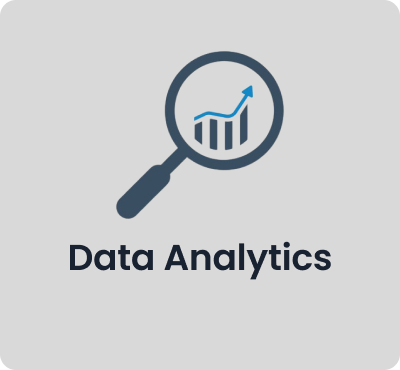
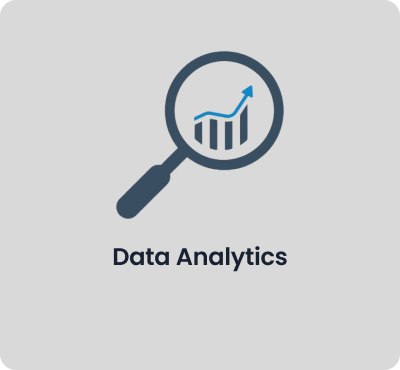
fix: fix project card

Changed region(s): [[0.15, 0.6541, 0.84, 0.773]]

diff --git a/src/components/Projects/Card.tsx b/src/components/Projects/Card.tsx
@@ -3,7 +3,7 @@
 import Image from 'next/image'
 import { StaticImageData } from 'next/image'
 import React, { useEffect, useState } from 'react'
-import Button from '@/components/Hero/Button'
+import Button from '@/components/Projects/Button'
 import Link from 'next/link'
 
 interface CardProps {
@@ -25,15 +25,11 @@ interface ButtonProps {
 const buttonCode: ButtonProps = {
     text: "View Code",
     icon_name: "fa-code",
-    height: "h-[25px]",
-    width: "w-[150px]"
 }
 
 const buttonView: ButtonProps = {
     text: "View Project",
     icon_name: "fa-eye",
-    height: "h-[25px]",
-    width: "w-[150px]"
 }
 
 const Card = ({ name, thumbnail, desc, tools, github, link }: CardProps): JSX.Element => {
@@ -76,20 +72,20 @@ const Card = ({ name, thumbnail, desc, tools, github, link }: CardProps): JSX.El
             </h3>
         </div>
         <div className={`relative flex flex-col w-full h-auto items-start px-10 py-10 cursor-pointer ${showDetails ? 'opacity-80' : 'opacity-0'}`}>
-            <div className='flex items-center mb-5 mt-[-50px]'>
-                <h2 className='text-2xl font-bold'>{name}</h2>
+            <div className='flex items-center mb-2 sm:mb-5 mt-[-50px]'>
+                <h2 className='text-lg sm:text-2xl font-bold'>{name}</h2>
             </div>
-            <div className='flex flex-row mt-3 mb-3'>
+            <div className='flex flex-row mb-2 sm:mt-3 sm:mb-3'>
                 <div className='w-[1px] h-full'></div>
-                <h3 className='text-md text-justify'>
+                <h3 className='text-xs sm:text-base text-justify'>
                     {desc}
                 </h3>
             </div>
-            <div className='flex flex-wrap mt-3 mb-5'>
+            <div className='flex flex-wrap sm:mt-3 sm:mb-5 mb-2'>
                 {tools.map((tool, index) => (
                     <h4
                         key={index}
-                        className='px-3 py-1 rounded-[10px] text-sm font-semibold mr-2 mb-2 hover:translate-y-[-4px] bg-foreground text-background'
+                        className='px-3 py-1 rounded-[10px] text-xs sm:text-sm font-semibold mr-2 mb-2 hover:translate-y-[-4px] bg-foreground text-background'
                     >
                         {tool}
                     </h4>

diff --git a/src/components/Projects/Button.tsx b/src/components/Projects/Button.tsx
@@ -1,0 +1,18 @@
+import React from 'react'
+
+
+interface ButtonProps {
+    text: string
+    icon_name: string
+}
+
+const Button = ({ text, icon_name }: ButtonProps): JSX.Element => {
+  return (
+    <div className={`h-[15px] w-[100px] sm:h-[25px] sm:w-[140px]  text-xs sm:text-base flex flex-row justify-center items-center overflow-hidden py-5 hover:translate-y-[-4px] font-mulish rounded bg-foreground drop-shadow-button hover:animate-pulse cursor-pointer`}>
+        <span className='mr-[10px] font-semibold text-background'> {text}</span>
+        <i className={`fas ${icon_name} text-background`}></i>
+    </div>
+  )
+}
+
+export default Button

diff --git a/src/contexts/Projects.tsx b/src/contexts/Projects.tsx
@@ -80,7 +80,7 @@ const projects = [
 const Projects = (): JSX.Element => {
 
   return (
-    <div className='h-screen w-screen flex flex-col font-marcellus justify-center items-center overflow-hidden py-[150px]' id='Projects'>
+    <div className='h-auto w-screen flex flex-col font-marcellus justify-center items-center overflow-hidden py-[150px]' id='Projects'>
       <div className='text-center mb-[30px]'>
           <h2 className='text-xl'>
               Take a look at
